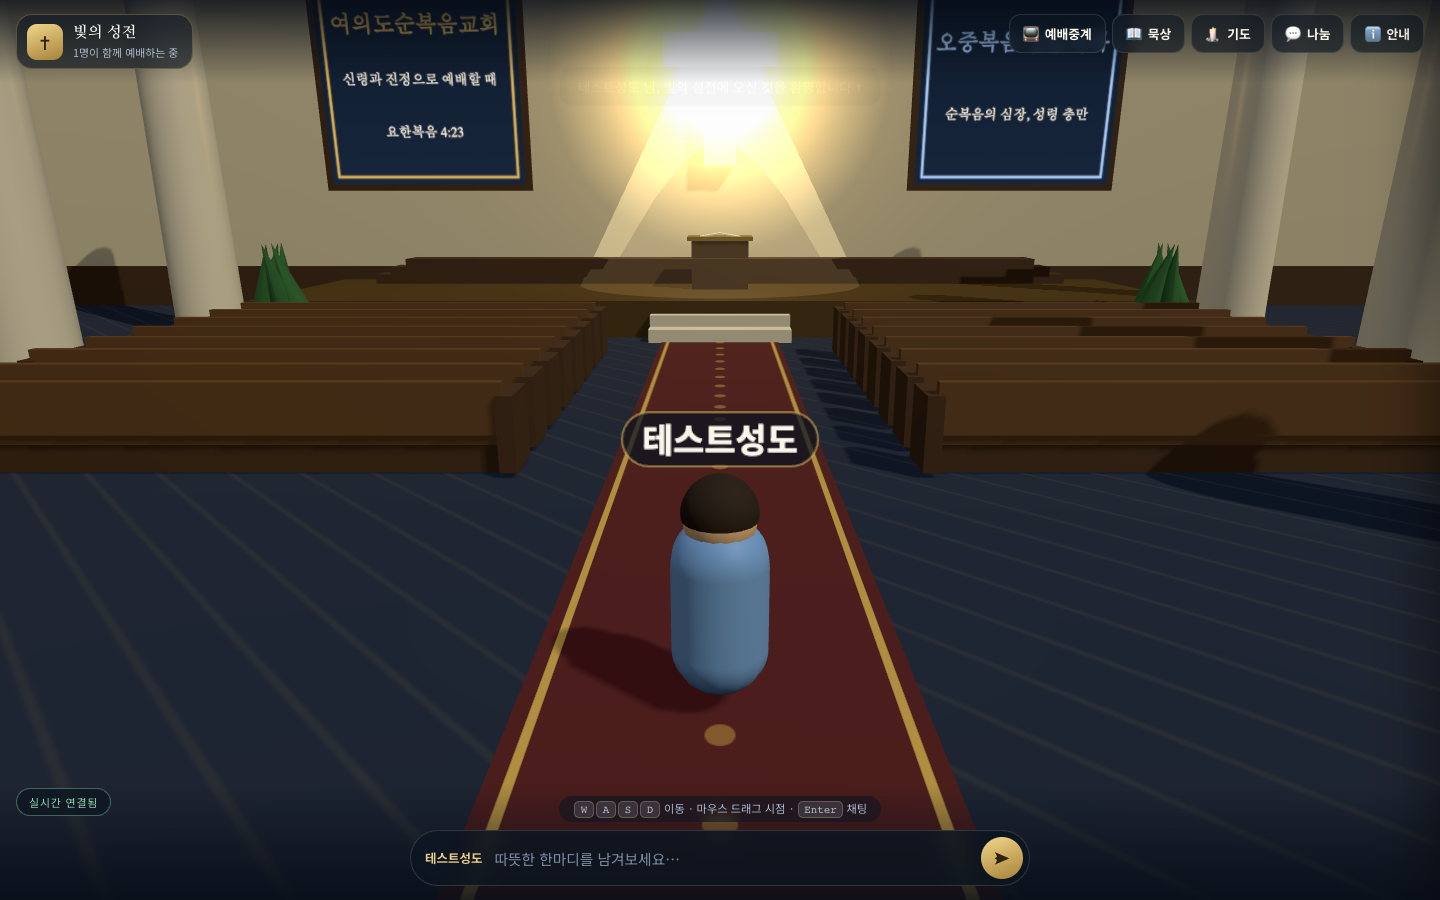
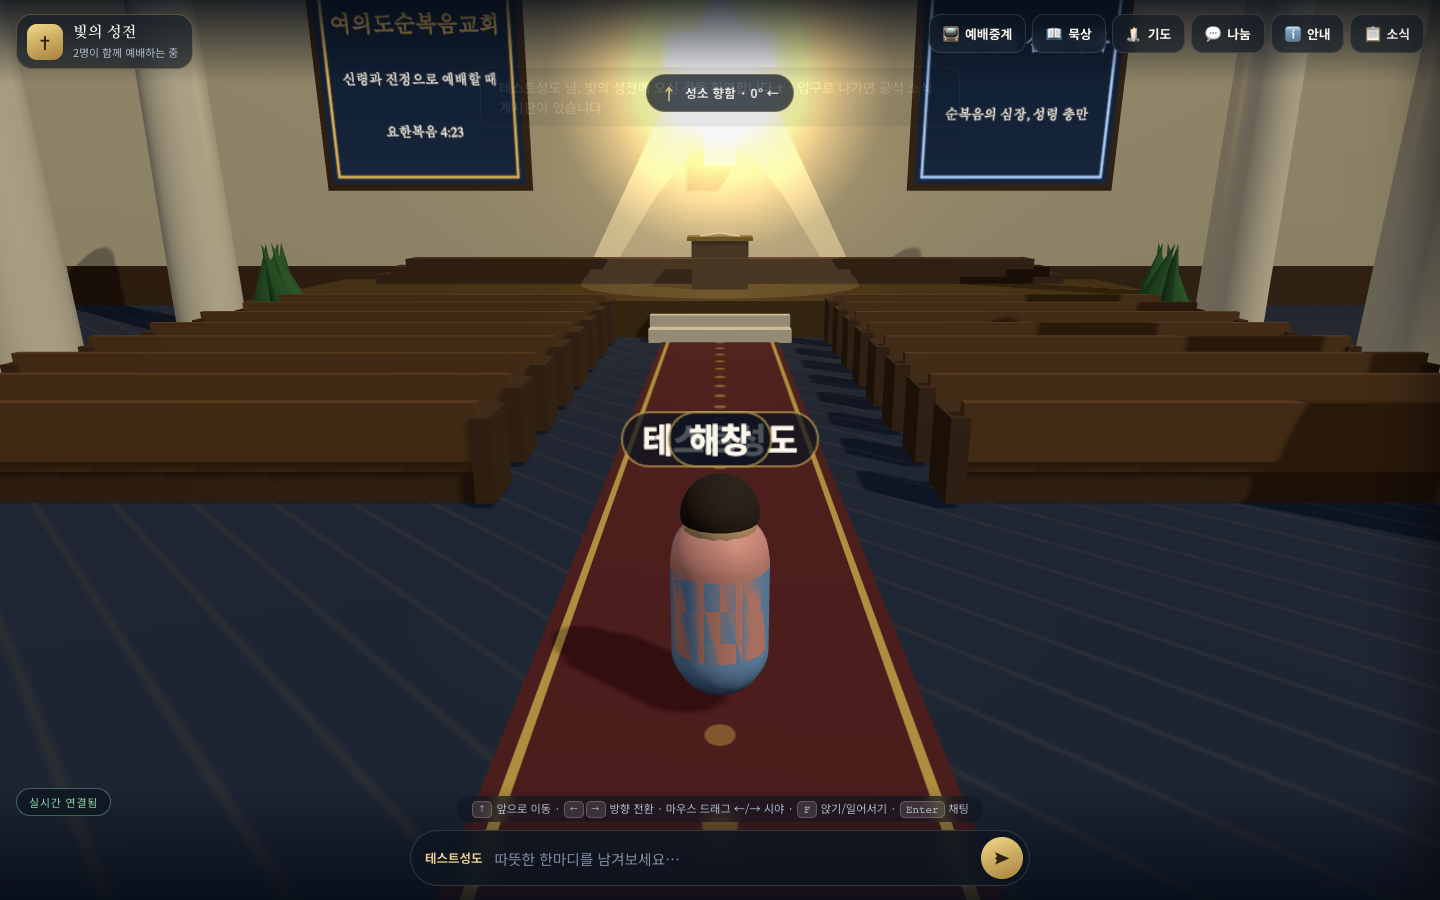
docs: 조작 모델 및 페우 간격 변경 안내 반영

diff --git a/docs/ARCHITECTURE.md b/docs/ARCHITECTURE.md
@@ -104,9 +104,11 @@ church-healing/
 ## 좌표/충돌 규칙
 
 - 플레이어 반경 0.55, 원–AABB 최근접점 밀어내기 + 룸 경계 클램프
-- 카메라(3인칭 오빗)도 룸 내부로 클램프 (`dims` 사용, z 상한은 앞마당까지)
+- 조작: `↑` 바라보는 방향으로만 전진(`↓` 후진), `←`/`→` 시야 회전(전진 중에도 회전 가능), 마우스 가로 드래그 = 시야 회전
 - 스폰: `(0, 0, 10.5)` — 십자가 정면(내용)
 - 앞마당 경계: 좌우 담장/기둥, 입구 포털 기둥(`openingHalf` 이내만 통과) — 출입 가능
+- 페우 통로: 좌석 열 단위 충돌(열 사이 1.2m+ 간격), 앞뒤로 이동 가능
+- 앉을 때: 아바타가 좌석면으로 이동하고 시야가 성소(정면)로 고정되며 이동/물리가 비활성화
 - 페우 좌석: 근접 시 `F`로 앉기/일어서기. 앉으면 아바타를 좌석면(y≈0.74)에 가깝게 내리고(루트 y≈0.28), 이동/물리 충돌이 비활성화. 좌석 선점 상태는 WS `pos`(`seat`)로 동기화, 리모트 아바타 y도 보간
 
 ## 예배당 밖 게시판

diff --git a/README.md b/README.md
@@ -45,8 +45,9 @@ docs/           PRD·아키텍처·의사결정·작업로그·스크린샷
 
 ## 주요 기능
 
-- 🚶 3D 대성전 탐험 + 앞마당 산책 (WASD/방향키 이동, 마우스 드래그 시야)
-- 🪑 페우 좌석에 앉기/일어서기 (`F`), 개별 좌석 1칸씩 선점
+- 🚶 3D 대성전 탐험 + 앞마당 산책 (`↑` 바라보는 방향으로만 이동, `←`/`→` 방향 전환, 마우스 드래그 시야, Shift 달리기)
+- 🧭 화면 상단에 현재 바라보는 방향(성소/측면/후면·각도) 표시
+- 🪑 페우 좌석에 앉기/일어서기 (`F`), 개별 좌석 1칸씩 선점, 앉으면 정면 시야 고정
 - 👀 다른 사람의 아바타가 바라보는 방향까지 실시간 동기화
 - 📋 앞마당 게시판 — FGTV ‘순복음소식’ 최신 소식 (제목/날짜/공식 링크)
 - 👥 실시간 아바타 동기화 + 채팅(Enter) + 아바타 위 말풍선
